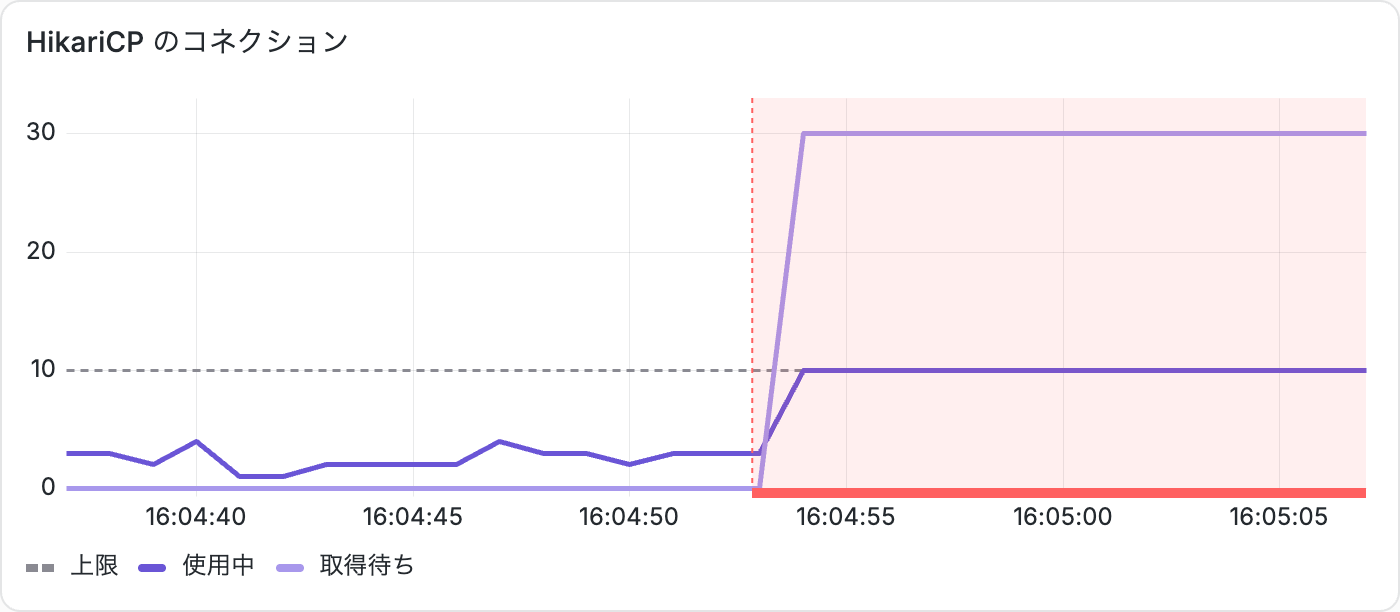
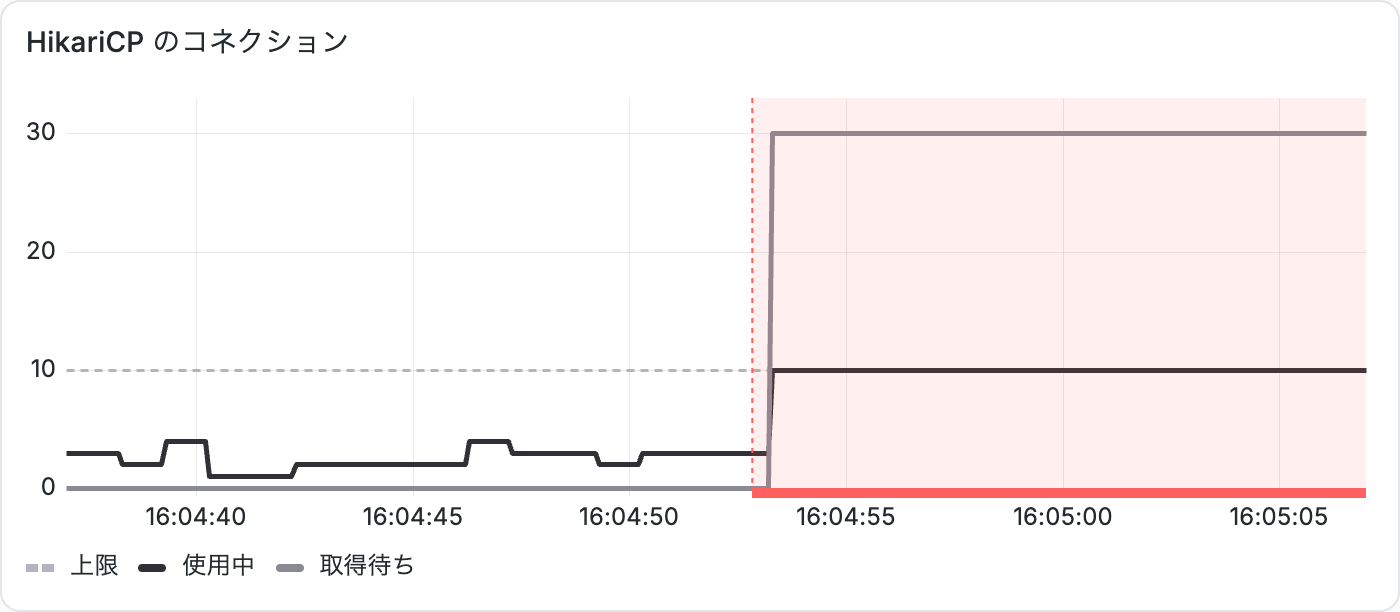
Tighten 3.2 and 5.2–5.3 after review rounds 5–7; keep the run data
- 5.3 now shows Grafana's own panels for the 15 s around the fault; the
  detailed reasons for the scatter (timestamp lag, k6 running out of VUs)
  move into a collapsible block, and the main prediction is one number
- Grafana: samples drawn on a 100 ms grid so the jump appears at the time it
  was measured (a 1 s grid showed it up to 1 s late); busy/limit/waiting in
  neutral greys since these series are not per endpoint; success rate in the
  figures' violet and teal
- scenarios/00-no-defense/results/runs.md: raw samples of all three runs,
  copied from Prometheus before they expire
- Prometheus keeps 30 days (capped at 1500 MB) instead of 2
- README "What goes wrong" synced with the draft

Changed region(s): [[0.0307, 0.1863, 0.9829, 0.8072], [0.1843, 0.9003, 0.215, 0.9314], [0.0921, 0.9003, 0.1229, 0.9314]]

diff --git a/tools/diagrams/thread-timeline.html b/tools/diagrams/thread-timeline.html
@@ -19,7 +19,7 @@
   const ORDERS_RATE = 60, PRODUCTS_RATE = 10;
   const round = (t) => Math.round(t * 1e9) / 1e9;
   const holdTime = (start, kind) => {
-    if (kind === 'p') return 0.005;
+    if (kind === 'p') return 0.0005;
     return start + 0.05 <= 0 ? 0.05 : 5.05;
   };
 
@@ -95,12 +95,12 @@
   el(svg, 'line', { class: 'grid', x1: x(fullAt), y1: QB - 100 * QS, x2: XE, y2: QB - 100 * QS });
   text(svg, x(fullAt) - 6, QB + 5, 'small end', '0');
   text(svg, x(fullAt) - 6, QB - 100 * QS + 5, 'small end', tr('100 件', '100'));
-  text(svg, XE + 6, QB - queued.length * QS + 4, 'small prd b', `/products ${queuedProducts}`);
+  text(svg, XE + 6, QB - queued.length * QS + 12, 'small prd b', `/products ${queuedProducts}`);
   text(svg, XE + 6, QB - (queuedOrders * QS) / 2 + 6, 'small ord b', `/orders ${queuedOrders}`);
   text(svg, x(fullAt), 66, 'lbl', tr('空きを待つ列（先着順）', 'Queue (FIFO)'));
   text(svg, x(fullAt), 86, 'small', tr(
-    `${fullAt.toFixed(1)} 秒から 1 秒に 70 件ずつ増え、2.0 秒で ${queued.length} 件`,
-    `grows by 70/s after ${fullAt.toFixed(1)} s (${queued.length} by 2.0 s)`));
+    `${fullAt.toFixed(1)} 秒から、1 秒あたり 70 件ずつ増え、2.0 秒で ${queued.length} 件`,
+    `grows by 70 req/s from ${fullAt.toFixed(1)} s (${queued.length} at 2.0 s)`));
 
   // 時間の軸
   el(svg, 'line', { class: 'axis', x1: X0, y1: FB, x2: XE, y2: FB });
@@ -119,9 +119,9 @@
   const cuts = [
     [-0.3, [tr(`この線と交わる棒は ${crossing(-0.3)} 本（L）`, `This line crosses ${crossing(-0.3)} bars (L)`),
             tr('≈ 60 件/秒（λ）× 0.05 秒（W）', '≈ 60 req/s (λ) × 0.05 s (W)')]],
-    [1.0, [tr(`この線と交わる棒は ${crossing(1.0)} 本（L ＝ 上限）`, `This line crosses ${crossing(1.0)} bars (L = 40, the cap)`),
+    [1.0, [tr(`この線と交わる棒は ${crossing(1.0)} 本（L ＝ 上限）`, `This line crosses ${crossing(1.0)} bars (L = 40, the limit)`),
            tr(`上限がなければ ${uncappedAt1} 本`, `Without the limit: ${uncappedAt1}`),
-           tr(`（障害の前からの ${heldAtFault} 本 + 60 件/秒 × 1 秒）`, `(${heldAtFault} in flight + 60 req/s × 1 s)`)]],
+           tr(`（障害の前からの ${heldAtFault} 本 + 60 件/秒 × 1 秒）`, `(${heldAtFault} already in flight + 60 req/s × 1 s)`)]],
   ];
   for (const [t, lines] of cuts) {
     // 軸の数字の上は通らない

diff --git a/tools/diagrams/failure-spread.html b/tools/diagrams/failure-spread.html
@@ -30,7 +30,7 @@
     el(svg, 'rect', { x: 20, y: Y, width: 64, height: 26, rx: 4, fill: fault ? '#fbe3e1' : '#e9e9ee' });
     text(svg, 52, Y + 18, `tag mid ${fault ? 'bad' : ''}`, fault ? tr('障害時', 'Fault') : tr('平常時', 'Normal'));
     text(svg, 96, Y + 19, 'hl', fault
-      ? tr('決済 API が 5.05 秒かかる。40 本すべてを /orders が握る', 'The payment API takes 5.05 s; /orders requests fill all 40 threads')
+      ? tr('決済 API が 5.05 秒かかる。40 本すべてが埋まる', 'The payment API takes 5.05 s; all 40 threads fill up')
       : tr('決済 API が 0.05 秒で返る', 'The payment API responds in 0.05 s'));
 
     // 到着：何をするエンドポイントかを名前の下に添える。2 本の矢印を 1 点に合流させる（エンドポイントごとの列はない）

diff --git a/docs/article-draft.md b/docs/article-draft.md
@@ -8,7 +8,7 @@
 
 order-api のスレッド 40 本は /orders・/products・/livez のすべてで、HikariCP のコネクション 10 本は /orders と /products で共有しています。この節では、Resilience4j などの防御をまだ何も入れていない状態（5 章の実験 0 と同じ設定）で考えます。
 
-/orders は、決済 API の応答が返るまでスレッドを 1 本握ったままにします。上限がなければ、同時に握る本数は λW で決まります。/products は DB を読むだけで 1 ミリ秒足らずで返るので、スレッドはほとんど使いません。決済 API の応答が 0.05 秒から 5.05 秒になると、λW は平常時の 3 本から 300 本になり、上限の 40 本を大きく超えます。
+/orders は、決済 API の応答が返るまでスレッドを 1 本握ったままにします。上限がなければ、同時に握る本数は λW で決まります。/products は DB を読むだけで 1 ミリ秒足らずで返るので、スレッドはほとんど使いません。決済 API の応答が 5.05 秒になると、/orders の λW は上限の 40 本を大きく超えます（図の右の列。λW は流れが落ち着いたときの本数で、そこに至るまでの動きは 5.2 で追います）。
 
 ![障害の広がり方](images/failure-spread.ja.png)
 *スレッドだけを描いた単純化。コネクションについては下の本文*
@@ -17,9 +17,9 @@ order-api のスレッド 40 本は /orders・/products・/livez のすべてで
 
 - **/products**：決済 API を呼ばないのに、空きを待つうちに 5 秒を過ぎ、ほぼすべて失敗する
 - **/orders**：スレッドを取れても 5 秒以内には返らず、失敗する。クライアントがあきらめたあとも処理は続き、スレッドは握られたまま
-- **/livez**：応答できず、Kubernetes が Pod を再起動する
+- **/livez**：応答できず、Kubernetes が Pod を再起動する（実験 0 では障害中に 3 回。5.4）
 
-コネクションでも同じことが起きます。実験 0 では決済 API をトランザクションの中で呼ぶので、/orders はコネクションも 5.05 秒握ります。コネクションの λW も約 300 本です。上限は 10 本とスレッドより少ないので、スレッドより先に尽きます。そのあとスレッドが埋まるまでのあいだにスレッドを取れた /products も、コネクションの空きを待ちます。2 つの共有の資源がどちらも上限を超えているので、片方だけを増やしても /products は助かりません。6 章では、この 2 つの W を順に抑えます。
+コネクションでも同じことが起きます。実験 0 では決済 API をトランザクションの中で呼ぶので、/orders はコネクションも 5.05 秒握ります。コネクションの λW も約 300 本です。上限は 10 本とスレッドより少ないので、スレッドより先に尽きます。コネクションが尽きてからスレッドが埋まるまでの短いあいだにスレッドを取れた /products も、コネクションの空きを待ってスレッドを握ります。共有している 2 つの資源がどちらも上限を超えているので、片方だけを増やしても /products は助かりません。6 章では、スレッドとコネクションを握る時間を順に短くします。
 
 遅くなったのは決済 API だけです。それでも、共有している資源を通じて、決済と関係のない API まで止まります。
 
@@ -34,36 +34,36 @@ order-api のスレッド 40 本は /orders・/products・/livez のすべてで
 ![障害の直後にスレッドが埋まっていく様子（計算）](images/thread-timeline.ja.png)
 *計算（実測ではない）*
 
-図から読み取ってほしいことは 3 つです。
-
 - **埋まるまでの時間は、空いている本数と到着率で決まる。** 障害の時点で処理中だった 3 件も応答が遅れるので、空いているのは 37 本です。終わる棒がないまま 1 秒に 60 本ずつ増えるので、約 0.6 秒で埋まります。棒が十分に長ければ、5 秒でも 30 秒でも同じです（どこまで短くすれば埋まらないかは、6.1 で求めます）
 - **上限がなくても、300 本にはすぐにはならない。** 1.0 秒の時点では 63 本です。300 本で落ち着くのは、最初の棒が終わり始め、増える棒と終わる棒が釣り合う 5 秒後からです
-- **L = λW の λ は、その資源に実際に入る率。** 2 章では λ を到着率と呼びましたが、上限で頭打ちのあいだ、スレッドに入れる率は到着率よりずっと小さくなります。0.6〜5 秒は 1 件も入れず、5 秒後からは平均で 40 ÷ 5.05 ≈ 8 件/秒です。落ち着けば 40 本 = 8 件/秒 × 5.05 秒で成り立ちます。入れなかった分は列に並び、伸び続けます（図の上の帯）。上限がなければ入る率は到着率と同じなので、3.2 の 60 件/秒 × 5.05 秒 ≈ 300 本になります
+
+**L = λW の λ は、その資源に実際に入る率です。** 2 章では λ を到着率と呼びましたが、上限で頭打ちのあいだ、スレッドに入れる率は到着率よりずっと小さくなります。0.6〜5 秒は 1 件も入れません。5 秒後からは、終わった棒の数だけ入れ替わりに入るので、平均で 40 ÷ 5.05 ≈ 8 件/秒です。落ち着けば 40 本 = 8 件/秒 × 5.05 秒で成り立ちます。入れなかった残りは列に並び、伸び続けます（図の上の「空きを待つ列」）。上限がなければ入る率は到着率と同じなので、3.2 の 60 件/秒 × 5.05 秒 ≈ 300 本になります。
 
 予測は「障害から約 0.6 秒で 40 本が埋まり、/products は列に並んで 5 秒でタイムアウトする」です。
 
-:::details 実験 0 では、もう少し早く埋まるはず
+:::details 実験 0 では、コネクションの分だけ少し早い（約 0.55 秒）
 実験 0 では決済 API をトランザクションの中で呼ぶので、コネクション 10 本が先に (10 − 3) ÷ 60 ≈ 0.12 秒で尽きます。このとき使っているスレッドは、コネクションを握った /orders の 10 本です。そのあとは /products もコネクションの空きを待つあいだ（HikariCP の取得待ちの上限は 30 秒）スレッドを握るので、残りの 30 本は 1 秒に 70 本ずつ埋まり、0.12 + 30 ÷ 70 ≈ 0.55 秒で満杯になります。
 :::
 
-### 5.3 実測：2 回とも、障害の直後の計測で 40 本に達する
+### 5.3 実測：5 秒を待たずに、1 秒ほどで 40 本が埋まる
 
 計測は 1 秒ごとです（計測は業務とは別のポートで受けているので、40 本が埋まっても測れます）。予測の約 0.6 秒は計測の間隔より短いので、障害の直後の 1〜2 点で確かめます。障害の時刻をミリ秒で記録した 2 回の実行を比べます。
 
 ![障害の前後 15 秒のスレッド（2 回目の実行）](../scenarios/00-no-defense/results/panels/threads-fault.png)
-*2 回目の実行。赤い帯が障害の区間。次の計測で 3 本から 40 本に跳ね上がり、そのまま横ばい*
+*2 回目の実行。赤い帯が障害の区間*
 
-2 回目の実行では、障害の 0.48 秒後の最初の計測で、40 本すべてが埋まっていました。図の計算（0.48 秒で 32 本）より早い側です。1 回目は、0.40 秒後に 24 本で、図の計算（27 本）より少し少なく、次の 1.40 秒後の計測で 40 本でした。2 回とも、計算の前後に数本ずつ散りながら、障害の直後の 1〜2 点で 40 本に達しています（ずれの理由は下の折りたたみ）。
+2 回目の実行では、障害の 0.48 秒後の最初の計測で、40 本すべてが埋まっていました。1 回目は、0.40 秒後に 24 本、次の 1.40 秒後の計測で 40 本でした。どちらも、決済 API の遅れの 5 秒を待たずに、1 秒ほどで埋まっています。計算（約 0.6 秒で満杯）に対して、2 回目は早く、1 回目は少し遅れています。1 秒ごとの計測では、これ以上細かくは比べられません（ずれの理由は下の折りたたみ）。
 
 ![障害の前後 15 秒の HikariCP（2 回目の実行）](../scenarios/00-no-defense/results/panels/hikari-fault.png)
+*2 回目の実行。黒が使用中、灰色が取得待ち、破線が上限*
 
-コネクションは、どの計測でも 10 本とも使われていて、握っている 10 本と待っている本数を足すと、スレッドの本数に一致しました（2 回目の 0.48 秒は 10 + 30 = 40、1 回目の 0.40 秒は 10 + 14 = 24）。1 回目の 0.40 秒の時点で、コネクションはもう尽きていたことになります。/products が 5 秒でタイムアウトしたことは、5.4 の成功率で確かめます。
+障害のあとは、どの計測でもコネクションは 10 本とも使われていて、握っている 10 本と待っている本数を足すと、スレッドの本数に一致しました（2 回目の 0.48 秒は 10 + 30 = 40、1 回目の 0.40 秒は 10 + 14 = 24）。1 回目の 0.40 秒の時点で、コネクションはもう尽きていたことになります。取得待ちが 30 で止まっているのは、スレッドが 40 本で頭打ちだからです（コネクションを待てるのは、スレッドを持っているリクエストだけ）。障害の前も約 3 本使っているのは、決済 API をトランザクションの中で呼んでいるからで、60 件/秒 × 0.05 秒と合います。/products が 5 秒でタイムアウトしたことは、5.4 の成功率で確かめます。
 
 :::details 計算とのずれの理由
-コネクションの分を足した計算（5.2 の折りたたみ）では、0.40 秒で 30 本、0.48 秒で 35 本です（処理中だった 3 本 + /orders の 60 件/秒 × 経過時間 + コネクションが尽きた 0.12 秒からの /products 10 件/秒 × 経過時間）。1 回目はこれより 6 本少なく、2 回目は 5 本多くなっています。
+コネクションの分を入れた計算（5.2 の折りたたみ）では、0.40 秒で 30 本、0.48 秒で 35 本です（処理中だった 3 本 + /orders の 60 件/秒 × 経過時間 + /products の 10 件/秒 ×（経過時間 − コネクションが尽きる 0.12 秒））。2 回の実行の生の値は scenarios/00-no-defense/results/runs.md にあります。1 回目はこれより 6 本少なく、2 回目は少なくとも 5 本多くなっています（2 回目は 40 本で頭打ちなので）。
 
-- **2 回目が多い理由**：2 つ考えられます。1 つは障害を入れた時刻の記録の遅れです。時刻は、遅延を入れる API の応答が返ってから、別のプロセスを起動して取っています。応答が返るまでと、起動にかかる時間（この Mac で 15〜20 ミリ秒）の分だけ記録が遅れ、経過時間は数十ミリ秒短く出ます（1〜3 本ぶん）。もう 1 つは、障害の時点で処理中だった本数です。平常時は 2〜5 本でぶれるので、3 本より多かった可能性があります
-- **1 回目が少ない理由**：k6 が障害の直後に送りきれなかったためと考えています。k6 は、応答を待っているリクエスト 1 件に 1 VU を使い、空いた VU がなければ、その回を捨てて VU を作り足します。障害の前に用意してあった VU は、2 つのシナリオの合計で 1 回目が 17（/orders に使えるのは多くて 12）、2 回目が 43 でした（作った VU は残るので、それまでの経過で実行ごとに数が違います）。1 回目は、/orders に使える空きの VU が障害から 0.15 秒ほどで尽き、そのあとは VU を作り足す速さ（1 秒に約 30）でしか送れていません。2 回目は、満杯になる 0.5 秒ごろまでは、用意してあった VU で足りていました。障害から 2 秒ほどで送れなかった /orders は 1 回目が 54 件、2 回目が 43 件ですが、2 回目の分は満杯のあとに出たはずです
+- **2 回目が多い理由**：2 つ考えられます。1 つは障害を入れた時刻の記録の遅れです。時刻は、遅延を入れる API の応答が返ってから、別のプロセスを起動して取っています。応答が返るまでと、起動にかかる時間（この Mac で 15〜20 ミリ秒）の分だけ記録が遅れ、経過時間は数十ミリ秒短く出ます（1〜3 本ぶん）。もう 1 つは、障害の時点で処理中だった本数です。平常時の本数は計測ごとにぶれ（障害の前の 1 分間で 1〜8 本）、3 本より多かった可能性があります
+- **1 回目が少ない理由**：k6 が障害の直後に送りきれなかったためと考えています。k6 は、応答を待っているリクエスト 1 件に 1 VU を使い、空いた VU がなければ、その回を捨てて VU を作り足します。障害の前に用意してあった VU は、2 つのシナリオの合計で 1 回目が 17、2 回目が 43 でした（作った VU は残るので、それまでの経過で実行ごとに数が違います）。1 回目は、/orders に使える VU が多くて 12（/products に最初から 5 割り当てるため）で、空いていた分が障害から 0.15 秒ほどで尽きました。そのあとは VU を作り足す速さ（1 秒に約 30）でしか送れていないので、0.15〜0.40 秒の 0.25 秒で、計算より 7 本ほど少なくなります。2 回目は、満杯になる 0.5 秒ごろまで、用意してあった VU で足りていました。なお、障害から 2 秒ほどのあいだに送れなかった /orders の件数は、1 回目が 54 件、2 回目が 43 件で、2 回目の分は満杯のあとに出たはずです
 :::
 
 ---
@@ -74,14 +74,14 @@ README の「What is shared inside order-api」の図のすぐ後に置く。
 
 > ## What goes wrong
 >
-> With no defenses enabled (scenario `00-no-defense`), every endpoint of order-api shares the same 40 Tomcat threads. Normally the payment API responds in 0.05 s, so by Little's Law `/orders` keeps about 3 threads busy (60 req/s × 0.05 s). When Toxiproxy adds 5 s of latency, `/orders` would need about 300 threads at once. Once all 40 are busy, new requests wait in a single FIFO queue inside Tomcat, regardless of endpoint. `/products`, which never calls the payment API, sits in that queue until k6 gives up at its own 5 s timeout (a client setting, unrelated to the injected delay). `/livez` is stuck in the same queue, so the liveness probe fails and Kubernetes restarts the Pod.
+> With no defenses enabled (scenario `00-no-defense`), every endpoint of order-api shares the same 40 Tomcat threads. Normally the payment API responds in 0.05 s, so by Little's Law `/orders` keeps about 3 threads busy (60 req/s × 0.05 s). When Toxiproxy adds 5 s of latency, `/orders` would eventually need about 300 threads at the same time (60 req/s × 5.05 s). Once all 40 are busy, new requests wait in a single FIFO queue inside Tomcat, regardless of endpoint. Forty threads that each hold a request for 5.05 s can serve only about 8 req/s against 70 arriving, so the queue only grows. `/products`, which never calls the payment API, sits in that queue until k6 gives up at its own 5 s timeout (a client setting, unrelated to the injected delay). `/livez` is stuck in the same queue, so the liveness probe fails and Kubernetes restarts the Pod.
 >
 > ![How the failure spreads](docs/images/failure-spread.en.png)
 >
-> The 10 DB connections run out too, and even sooner. `/orders` calls the payment API inside a DB transaction, so each request also holds a connection for the full 5.05 s, and with only 10 of them the connections are gone before the threads. After that, a `/products` request that gets a thread blocks waiting for a connection, so it holds the thread as well.
+> The 10 DB connections run out too, and sooner than the threads: `/orders` calls the payment API inside a DB transaction, so it holds a connection for the full 5.05 s, and the 7 idle connections are gone in about 7 ÷ 60 ≈ 0.12 s. After that, a `/products` request that gets a thread blocks waiting for a connection, so it ties up the thread too.
 >
-> The 300 above is steady-state demand: without the limit, demand would grow by 60 every second and reach about 300 only after 5 s, and busy threads never get there because the pool is capped at 40. What matters is how fast the 40 fill up. The chart below is a calculation, not a measurement: each row is one thread and each bar one `/orders` request, with evenly spaced arrivals and threads only. The 37 idle threads are used up in about 37 ÷ 60 ≈ 0.6 s.
+> The 300 is a steady-state figure. Without a limit, in-flight `/orders` requests would grow by 60 per second and reach about 300 only after 5 s; with the limit, busy threads stop at 40 long before that. What matters is how fast the 40 fill up. The chart below is a calculation, not a measurement: each row is a thread and each bar is one `/orders` request. It assumes evenly spaced arrivals and models only the thread pool, not DB connections. How long each bar lasts doesn't matter once it outlasts the fill-up: with 5 s or 30 s of delay, the 40 threads are gone at the same moment.
 >
 > ![Threads filling up right after the fault](docs/images/thread-timeline.en.png)
 >
-> Metrics are sampled about once a second. In one run, the first sample after the fault (0.48 s) already showed all 40 threads busy, a little earlier than the chart: once the connections are gone, `/products` holds threads too, which brings the estimate down to about 0.55 s. In the other run, 24 threads were busy at 0.40 s (the chart says 27), and the next sample, at 1.40 s, showed all 40.
+> Prometheus scrapes the busy-thread count once a second. In one run, the first sample after the fault, 0.48 s in, already showed all 40 busy. In another run, 24 were busy at 0.40 s and all 40 at the next sample, 1.40 s in. The two runs land on either side of the estimate; once-a-second sampling can't resolve it more finely than that.

diff --git a/docs/article-outline.md b/docs/article-outline.md
@@ -58,7 +58,7 @@ Zenn に 1 本の記事として出す前提の章立て。図は `tools/diagram
 ### 3.2 λW が上限を超えると、共有している資源を通じて広がる
 
 - 本文は [article-draft.md](article-draft.md) の 3.2。防御なし（実験 0 と同じ設定）で考える
-- 図：[障害の広がり方](images/failure-spread.ja.png)。平常時と障害時を同じ形で並べ、同時に要る本数（λW）3 本 → 300 本と上限 40 本を比べる。キャプション「スレッドを例にした図。コネクション 10 本でも同じことが起きる（下の本文）」
+- 図：[障害の広がり方](images/failure-spread.ja.png)。平常時と障害時を同じ形で並べ、同時に要る本数（λW）3 本 → 300 本と上限 40 本を比べる。キャプション「スレッドだけを描いた単純化。コネクションについては下の本文」
 - λW（上限がない場合に要る数）と L（上限で頭打ちになる実際の数）を呼び分ける
 - コネクションも λW ≈ 300 本 > 10 本で、上限が小さいぶんスレッドより先に尽きる。2 つの資源がどちらも上限を超えるので、片方だけ増やしても /products は助からない（6 章への予告）
 
@@ -100,7 +100,7 @@ Zenn に 1 本の記事として出す前提の章立て。図は `tools/diagram
 - λW の 300 本にはすぐにはならない（1.0 秒で 63 本）。頭打ちのあいだ、スレッドに入れる率は平均 40 ÷ 5.05 ≈ 8 件/秒で、L = λW の λ は箱に実際に入る率
 - 実験 0 ではコネクションが 0.12 秒で先に尽き、/products もスレッドを握るので、0.12 + 30 ÷ 70 ≈ 0.55 秒と少し早まる
 
-### 5.3 実測：2 回とも、障害の直後の計測で 40 本に達する
+### 5.3 実測：5 秒を待たずに、1 秒ほどで 40 本が埋まる
 
 - 本文は [article-draft.md](article-draft.md) の 5.3。障害の時刻をミリ秒で記録した 2 回の実行を比べる（それより前の 1 回は、時刻が秒単位なので外す）
 - 図：[障害の前後 15 秒のスレッド](../scenarios/00-no-defense/results/panels/threads-fault.png)、[同じく HikariCP](../scenarios/00-no-defense/results/panels/hikari-fault.png)。`node tools/capture.mjs <results> --panels threads,hikari --around-fault 15,15 --width 700` で撮る。実測は描き直さず、Grafana の画面で見せる
@@ -113,7 +113,7 @@ Zenn に 1 本の記事として出す前提の章立て。図は `tools/diagram
 - /products の成功率 0.8%、再起動 4 回（灰色の帯。記事の図で紫は /orders に使うので、ダッシュボードの再起動の色を灰色にした）
 - 図：[00 の成功率](../scenarios/00-no-defense/results/panels/success.png)、[00 の HikariCP](../scenarios/00-no-defense/results/panels/hikari.png)（10 本が満杯、取得待ち最大 38）
 - 実測の L と λ×W の線が離れるのはここ（完了したリクエストしか数えないため）。「定常状態が前提」を説明する
-- 40 本のまま約 20 秒続いたあと、約 5 秒ごとに 40 → 28 → 17 → 6 本と下がる。取得待ちは 30 → 18 → 7 → 0、使用中のコネクションは 10 のまま（コネクション 10 本が約 5 秒ごとに入れ替わって、残りを片付けている形に見える。再起動との関係は、イベントの時刻と突き合わせてから書く）。5.3 の Grafana のキャプションから送っている
+- 40 本のまま約 20 秒続いたあと、約 5 秒ごとに 40 → 28 → 17 → 6 本と下がる。取得待ちは 30 → 18 → 7 → 0、使用中のコネクションは 10 のまま（コネクション 10 本が約 5 秒ごとに入れ替わって、残りを片付けている形に見える。再起動との関係は、イベントの時刻と突き合わせてから書く）。取得待ちの最大 38 は再起動の直後（プールのコネクションがまだ 2 本のとき、2 + 38 = 40）の値で、5.3 の「30 で止まるのはスレッドが 40 本で頭打ちだから」と矛盾しないことを断る。成功率のパネルは、/orders を紫・/products を青緑にしたダッシュボードで撮り直す
 
 ### 5.5 CPU は低いまま
 

diff --git a/README.md b/README.md
@@ -13,17 +13,17 @@ When the payment API slows down, APIs that never call it stop too. This lab pred
 
 ## What goes wrong
 
-With no defenses enabled (scenario `00-no-defense`), every endpoint of order-api shares the same 40 Tomcat threads. Normally the payment API responds in 0.05 s, so by Little's Law `/orders` keeps about 3 threads busy (60 req/s × 0.05 s). When Toxiproxy adds 5 s of latency, `/orders` would need about 300 threads at once. Once all 40 are busy, new requests wait in a single FIFO queue inside Tomcat, regardless of endpoint. `/products`, which never calls the payment API, sits in that queue until k6 gives up at its own 5 s timeout (a client setting, unrelated to the injected delay). `/livez` is stuck in the same queue, so the liveness probe fails and Kubernetes restarts the Pod.
+With no defenses enabled (scenario `00-no-defense`), every endpoint of order-api shares the same 40 Tomcat threads. Normally the payment API responds in 0.05 s, so by Little's Law `/orders` keeps about 3 threads busy (60 req/s × 0.05 s). When Toxiproxy adds 5 s of latency, `/orders` would eventually need about 300 threads at the same time (60 req/s × 5.05 s). Once all 40 are busy, new requests wait in a single FIFO queue inside Tomcat, regardless of endpoint. Forty threads that each hold a request for 5.05 s can serve only about 8 req/s against 70 arriving, so the queue only grows. `/products`, which never calls the payment API, sits in that queue until k6 gives up at its own 5 s timeout (a client setting, unrelated to the injected delay). `/livez` is stuck in the same queue, so the liveness probe fails and Kubernetes restarts the Pod.
 
 ![How the failure spreads](docs/images/failure-spread.en.png)
 
-The 10 DB connections run out too, and even sooner. `/orders` calls the payment API inside a DB transaction, so each request also holds a connection for the full 5.05 s, and with only 10 of them the connections are gone before the threads. After that, a `/products` request that gets a thread blocks waiting for a connection, so it holds the thread as well.
+The 10 DB connections run out too, and sooner than the threads: `/orders` calls the payment API inside a DB transaction, so it holds a connection for the full 5.05 s, and the 7 idle connections are gone in about 7 ÷ 60 ≈ 0.12 s. After that, a `/products` request that gets a thread blocks waiting for a connection, so it ties up the thread too.
 
-The 300 above is steady-state demand: without the limit, demand would grow by 60 every second and reach about 300 only after 5 s, and busy threads never get there because the pool is capped at 40. What matters is how fast the 40 fill up. The chart below is a calculation, not a measurement: each row is one thread and each bar one `/orders` request, with evenly spaced arrivals and threads only. The 37 idle threads are used up in about 37 ÷ 60 ≈ 0.6 s.
+The 300 is a steady-state figure. Without a limit, in-flight `/orders` requests would grow by 60 per second and reach about 300 only after 5 s; with the limit, busy threads stop at 40 long before that. What matters is how fast the 40 fill up. The chart below is a calculation, not a measurement: each row is a thread and each bar is one `/orders` request. It assumes evenly spaced arrivals and models only the thread pool, not DB connections. How long each bar lasts doesn't matter once it outlasts the fill-up: with 5 s or 30 s of delay, the 40 threads are gone at the same moment.
 
 ![Threads filling up right after the fault](docs/images/thread-timeline.en.png)
 
-Metrics are sampled about once a second. In one run, the first sample after the fault (0.48 s) already showed all 40 threads busy, a little earlier than the chart: once the connections are gone, `/products` holds threads too, which brings the estimate down to about 0.55 s. In the other run, 24 threads were busy at 0.40 s (the chart says 27), and the next sample, at 1.40 s, showed all 40.
+Prometheus scrapes the busy-thread count once a second. In one run, the first sample after the fault, 0.48 s in, already showed all 40 busy. In another run, 24 were busy at 0.40 s and all 40 at the next sample, 1.40 s in. The two runs land on either side of the estimate; once-a-second sampling can't resolve it more finely than that.
 
 ## Requirements
 

diff --git a/scenarios/00-no-defense/results/runs.md b/scenarios/00-no-defense/results/runs.md
@@ -1,0 +1,16 @@
+# 00 防御なし：障害の直後の生の値（3 回の実行）
+
+記事の 5.3 で使う、障害の直後のスレッドとコネクションの値。このディレクトリのグラフと score.json は 2 回目のもので、予備と 1 回目の値は Prometheus にしか残っていなかったので、ここに書き写した（2026-10-17 に Prometheus から取得）。
+
+経過時間は、run.sh が記録した障害の時刻（Toxiproxy に遅延を入れる API が返った直後に取った時刻）からの秒数。計測は 1 秒ごと。予備の実行は障害の時刻を秒単位でしか記録していないので、立ち上がりの比べには使わない（記事の「1 回目」「2 回目」は、この表の 1・2）。
+
+| 回 | testid | 障害の時刻の記録 | 障害の直前 | 障害後の 1 点目 | 障害後の 2 点目 | 障害の直前の k6 の VU（上限 / 使用中） | 障害から約 2 秒で送れなかった /orders |
+|---|---|---|---|---|---|---|---|
+| 予備 | 00-no-defense-20261017-145324 | 秒単位 | スレッド 4（コネクション 4 + 0） | 0.27 秒：5（4 + 0）※ | 1.27 秒：31（10 + 21） | 22 / 3 | 0 件（そのあと 53 件） |
+| 1 | 00-no-defense-20261017-150459 | ミリ秒 | スレッド 2（2 + 0） | 0.40 秒：24（10 + 14） | 1.40 秒：40（10 + 30） | 17 / 3 | 54 件 |
+| 2 | 00-no-defense-20261017-160241 | ミリ秒 | スレッド 3（3 + 0） | 0.48 秒：40（10 + 30） | 1.48 秒：40（10 + 30） | 43 / 3 | 43 件 |
+
+※ 予備の実行は障害の時刻が秒に切り捨てられているので、本当の経過時間はこれより最大 1 秒短い。
+
+括弧の中は HikariCP の使用中 + 取得待ち。障害のあとは、どの計測でも使用中が上限の 10 本で、使用中と取得待ちの和がスレッドの本数に一致する（スレッドを持っているリクエストだけがコネクションを待つ）。
+
